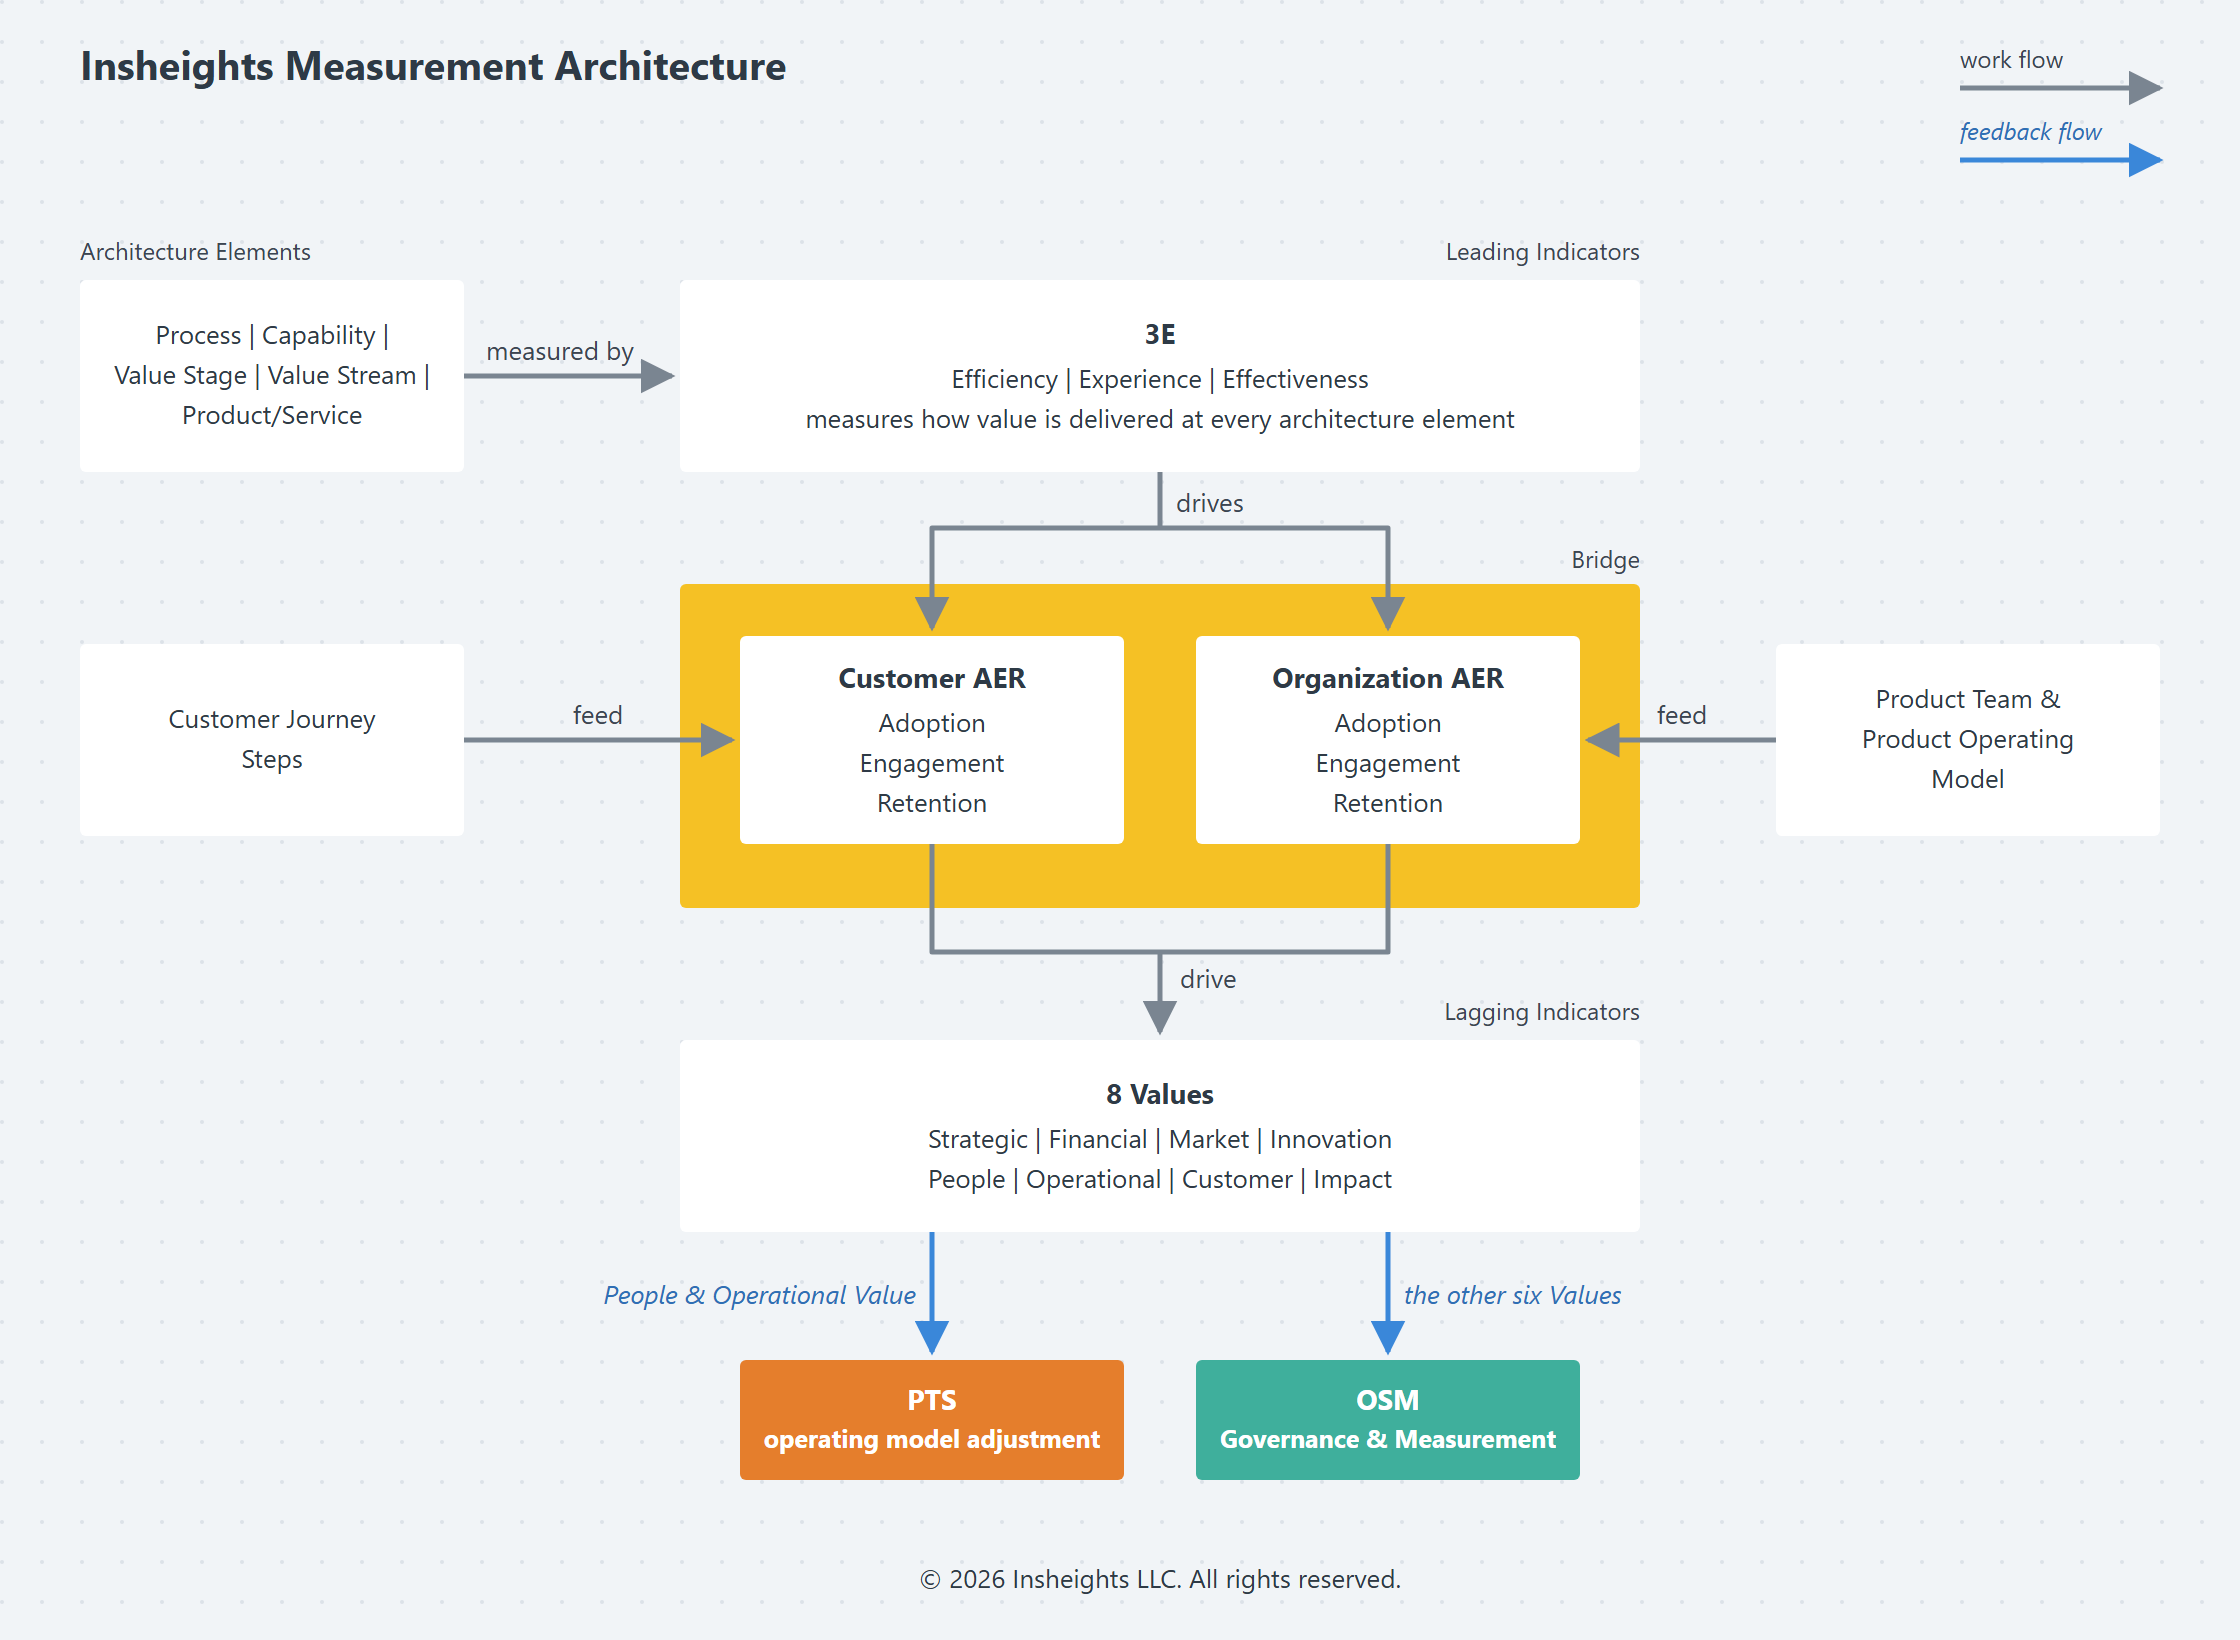
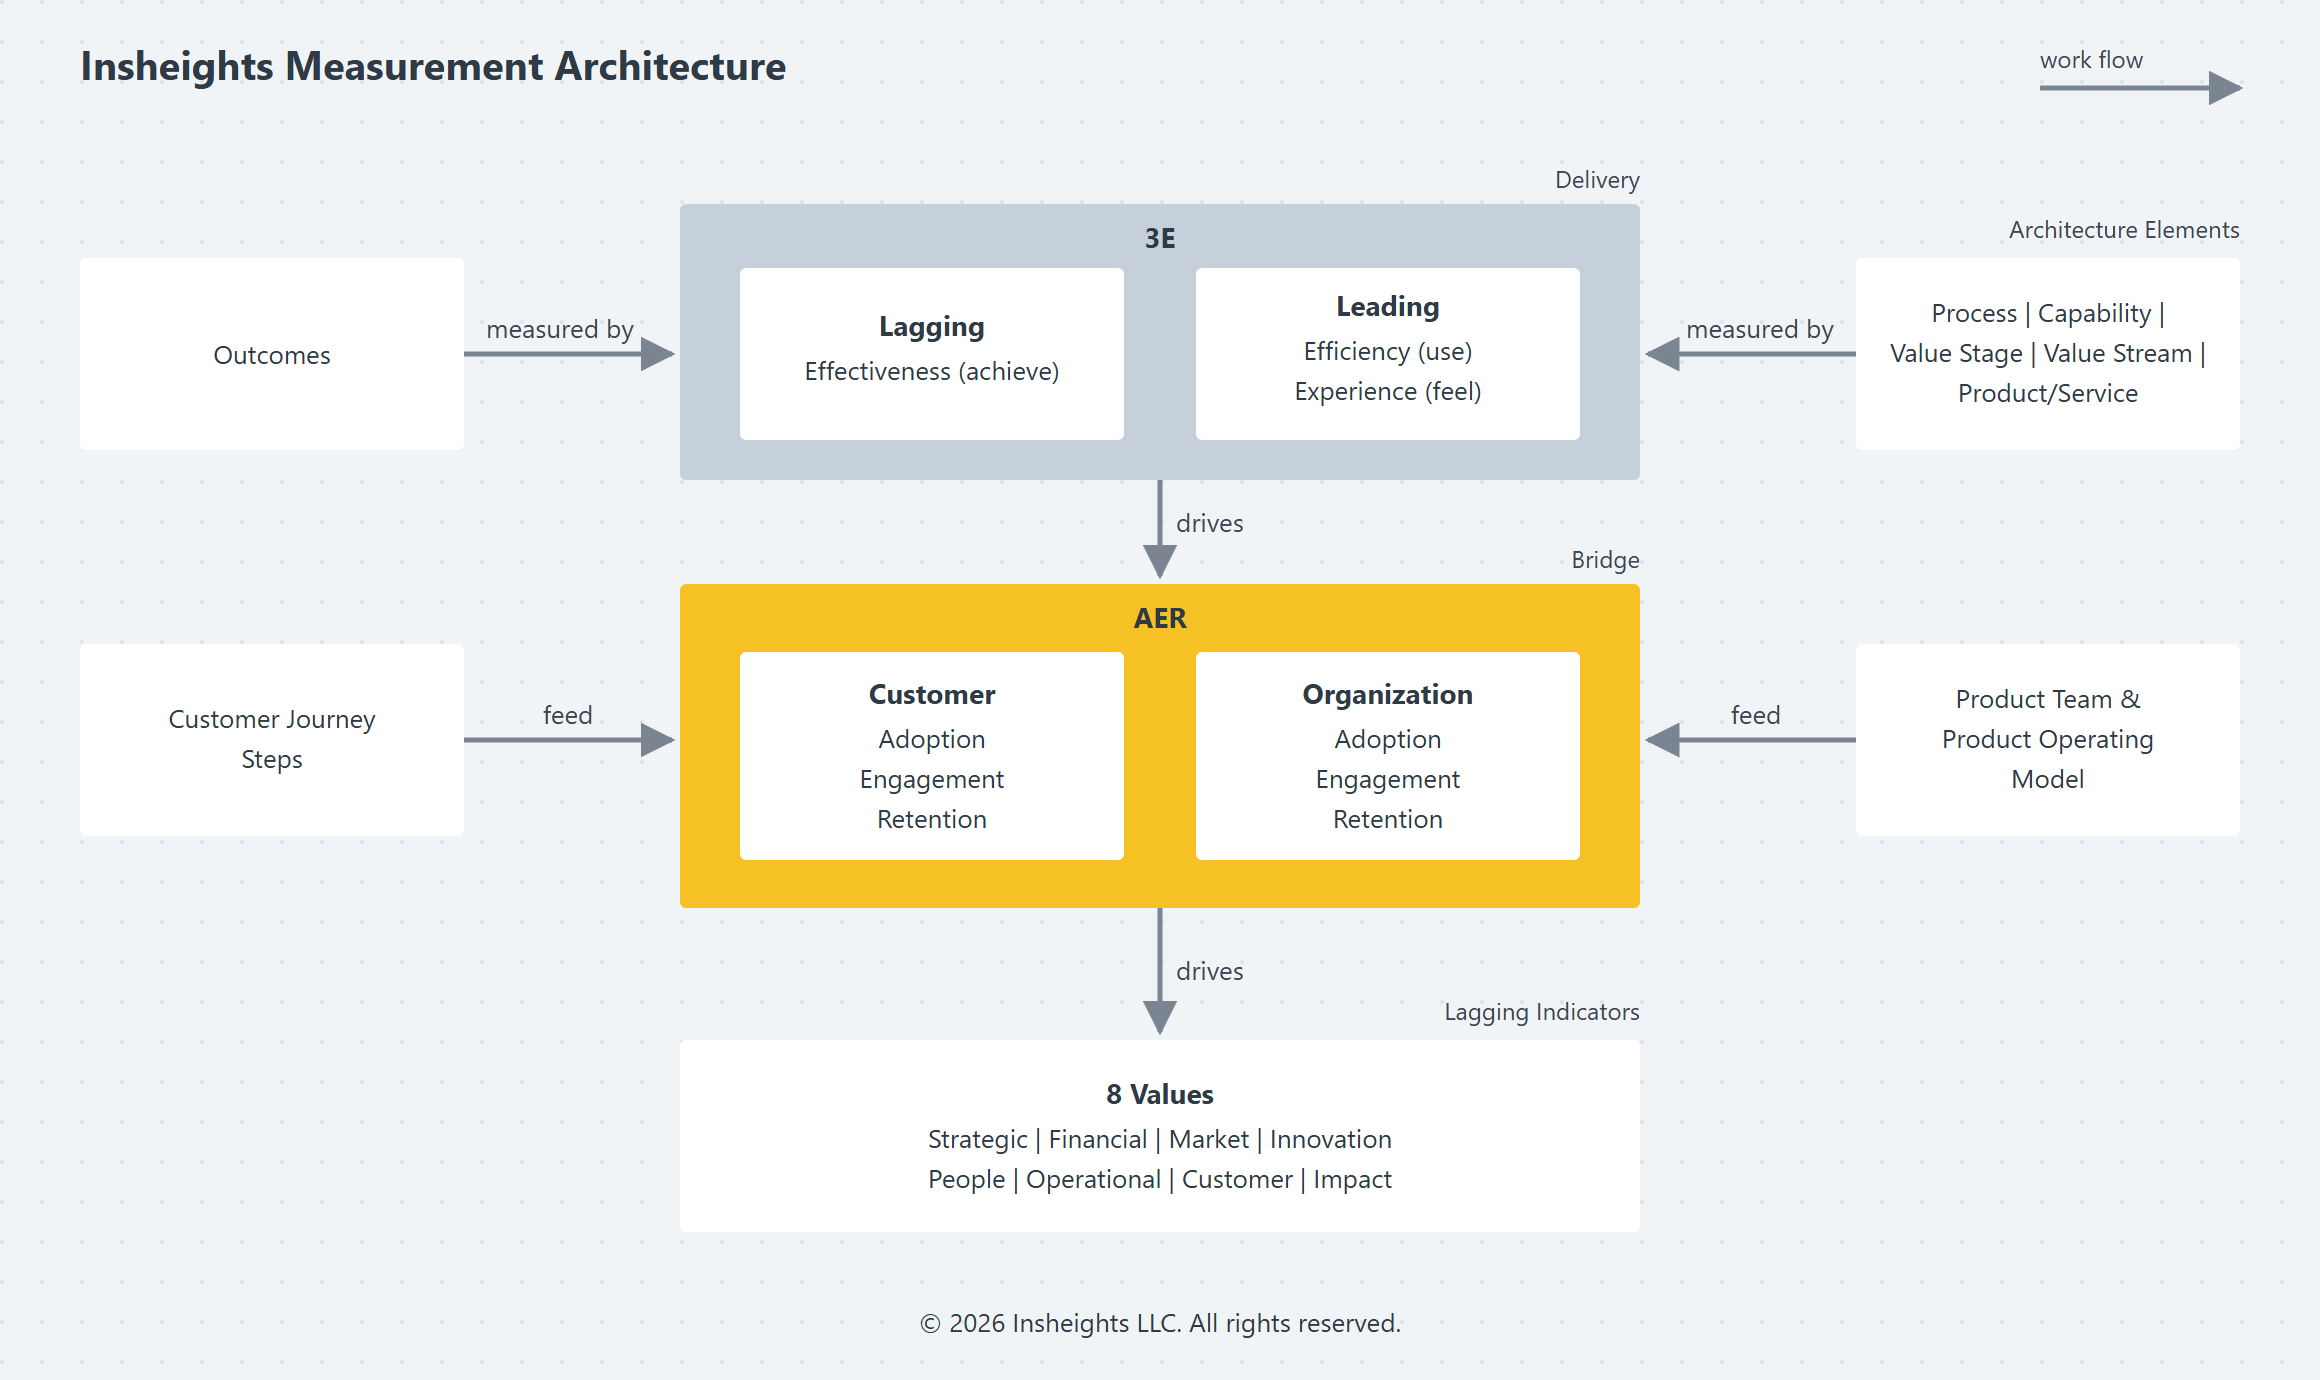
Measurement Architecture and 8-Values: restructure and label in words
Measurement Architecture
- 3E split into Lagging (Effectiveness) and Leading (Efficiency,
  Experience), as 3e.md classifies them; AER titled as the outer box
  with Customer and Organization tracks.
- Outcomes (measured by Effectiveness) on the left, Architecture
  Elements (measured by all of 3E) on the right; every arrow meets an
  outer box, so 3E drives AER and AER drives the 8 Values.
- The diagram stays measurement only: the 8 Values exits to PTS / OSM
  and the feedback legend entry are removed.

8-Values
- Numbers replaced by labels: a verb on one-way arrows, the shared
  noun on two-way arrows. All arrows grey.
- People enables Innovation; Strategic <-> Innovation is strategic
  options; Innovation <-> Financial is investment.
- Larger layout so arrowheads clear the labels; legend shows one-way,
  two-way and episodic effects.

8-values.md tables drop the # column; glossary updated to match.

diff --git a/8-values.md b/8-values.md
@@ -225,41 +225,41 @@ The 8 Values do not operate as a linear chain — they form a network in which m
 **Arrow encoding:**
 - **Solid arrows** — direct, continuous relationship: active, ongoing, and traceable
 - **Dashed arrows** — indirect, episodic relationship: real but mediated or periodic rather than immediate
-- **Blue arrows** — the one-way relationships typed *Feedback* (Operational → Strategic, Customer → Strategic)
-- **Numbers** — each arrow's number is its row in the # column of the tables below
+- **Arrowheads** — one head for a one-way relationship, a head at each end for a two-way relationship
+- **Labels** — a one-way arrow carries a verb, read from source to target (*Customer Value **builds reputation** for Market Value*); a two-way arrow names what passes both ways (*capital allocation* between Strategic and Financial Value). Each label summarises a row in the tables below
 
 ### Bidirectional Relationships — Solid
 
-| # | Relationship | Direction A | Direction B |
-|---|---|---|---|
-| 1 | **Strategic ↔ Innovation** | Strategic direction sets where innovation investment is focused | Disruptive innovation reshapes strategic direction |
-| 2 | **Strategic ↔ Market** | Strategic choices shape market positioning and competitive strategy | Market signals inform strategic reassessment |
-| 3 | **Strategic ↔ Financial** | Strategic direction determines capital allocation and resource deployment | Financial performance informs strategic capacity and priority |
-| 4 | **Financial ↔ Operational** | Financial returns fund operational investment and capability improvement | Operational efficiency and throughput generate financial returns |
-| 5 | **Operational ↔ Customer** | Operational capability enables consistent customer value delivery | Customer signal and demand drive operational improvement and redesign |
-| 6 | **People ↔ Impact** | People capability and culture generate societal and ecosystem impact | Purpose and impact attract, engage, and retain people |
-| 7 | **Customer ↔ Impact** | Delivering genuine customer value creates direct societal benefit | Impact purpose deepens customer loyalty and advocacy |
-| 8 | **Market ↔ Impact** | Market reach and reputation amplify societal and ecosystem impact | Strong impact builds market reputation and trust |
+| Relationship | Direction A | Direction B |
+|---|---|---|
+| **Strategic ↔ Innovation** | Strategic direction sets where innovation investment is focused | Disruptive innovation reshapes strategic direction |
+| **Strategic ↔ Market** | Strategic choices shape market positioning and competitive strategy | Market signals inform strategic reassessment |
+| **Strategic ↔ Financial** | Strategic direction determines capital allocation and resource deployment | Financial performance informs strategic capacity and priority |
+| **Financial ↔ Operational** | Financial returns fund operational investment and capability improvement | Operational efficiency and throughput generate financial returns |
+| **Operational ↔ Customer** | Operational capability enables consistent customer value delivery | Customer signal and demand drive operational improvement and redesign |
+| **People ↔ Impact** | People capability and culture generate societal and ecosystem impact | Purpose and impact attract, engage, and retain people |
+| **Customer ↔ Impact** | Delivering genuine customer value creates direct societal benefit | Impact purpose deepens customer loyalty and advocacy |
+| **Market ↔ Impact** | Market reach and reputation amplify societal and ecosystem impact | Strong impact builds market reputation and trust |
 
 ### Bidirectional Relationship — Dashed
 
-| # | Relationship | Direction A | Direction B |
-|---|---|---|---|
-| 9 | **Innovation ↔ Financial** | Innovation generates financial return through new products, IP, and market expansion — over time and through the operational chain | Financial strength funds R&D, experimentation, and innovation infrastructure |
+| Relationship | Direction A | Direction B |
+|---|---|---|
+| **Innovation ↔ Financial** | Innovation generates financial return through new products, IP, and market expansion — over time and through the operational chain | Financial strength funds R&D, experimentation, and innovation infrastructure |
 
 The Innovation ↔ Financial relationship is indirect and episodic: financial return from innovation routes through operations and customer delivery rather than immediately, and financial investment in innovation produces returns on a cycle rather than continuously.
 
 ### One-Way Relationships
 
-| # | Relationship | Type | Mechanism |
-|---|---|---|---|
-| 10 | **People → Operational** | Foundational | People capability is the prerequisite for operational performance |
-| 11 | **People → Innovation** | Foundational | People capability and engagement drive innovation capacity |
-| 12 | **Operational → Impact** | Generative | How the organisation operates directly creates or undermines societal and ecosystem impact |
-| 13 | **Operational → Strategic** | Feedback | Operational capability and capacity inform strategic feasibility — what the organisation can actually execute |
-| 14 | **Customer → Financial** | Generative | Customer value delivery generates revenue, margin, and financial sustainability |
-| 15 | **Customer → Market** | Generative | Consistent customer outcomes build market reputation and position |
-| 16 | **Customer → Strategic** | Feedback | Customer outcomes are direct evidence for whether strategic hypotheses are being validated |
+| Relationship | Type | Mechanism |
+|---|---|---|
+| **People → Operational** | Foundational | People capability is the prerequisite for operational performance |
+| **People → Innovation** | Foundational | People capability and engagement drive innovation capacity |
+| **Operational → Impact** | Generative | How the organisation operates directly creates or undermines societal and ecosystem impact |
+| **Operational → Strategic** | Feedback | Operational capability and capacity inform strategic feasibility — what the organisation can actually execute |
+| **Customer → Financial** | Generative | Customer value delivery generates revenue, margin, and financial sustainability |
+| **Customer → Market** | Generative | Consistent customer outcomes build market reputation and position |
+| **Customer → Strategic** | Feedback | Customer outcomes are direct evidence for whether strategic hypotheses are being validated |
 
 ### Convergence Nodes
 

diff --git a/glossary.md b/glossary.md
@@ -77,7 +77,7 @@ Every arrow in the IIVCS diagrams carries a label from this vocabulary, and a wo
 - **Feedback flow** (blue arrow, italic label): the name of what flows back. OSM and CVDM number their feedback loops 1–5 as a sequence.
 - **System hand-offs** (IIVCS diagram): the noun handed between frameworks — *value priorities* and *product teams* down, *value-stream outcomes*, *strategic signals* and *customer outcome* back up.
 - Words inside a box or band that state a relationship use the same vocabulary (listed under *Relationship words* below).
-- **8-Values diagram:** most of its relationships run both ways, so each arrow carries a number (1–16) keyed to the *Compounding Relationships* tables in [8 Values](8-values.md), where both directions are written out. Blue marks the two one-way relationships typed *Feedback*.
+- **8-Values diagram:** a one-way relationship is an arrow carrying a verb (source → target); a two-way relationship has a head at each end and names what passes both ways. All its arrows are grey: they are compounding relationships between Values, not work or feedback flows. Each label summarises a row of the *Compounding Relationships* tables in [8 Values](8-values.md).
 
 ### Work-flow verbs
 
@@ -86,13 +86,13 @@ Every arrow in the IIVCS diagrams carries a label from this vocabulary, and a wo
 | **constrains** | Sets limits the target must stay within | OSM: Enterprise Risk Mgmt → Strategic Value Creation (risk appetite) |
 | **decides** | Makes the choice | OSM: Leadership Direction → Strategic Value Creation |
 | **delivers** | Produces and hands over the value that was promised | CVDM: Value Stream → Value Proposition; Product/Service → Value |
-| **drives** | Causes the target to move; here, 3E performance produces the AER response, and AER behaviour produces the 8 Values | Measurement Architecture: 3E → Customer AER, Organization AER; Customer AER, Organization AER → 8 Values (*drive*) |
+| **drives** | Causes the target to move; here, 3E performance produces the AER response, and AER behaviour produces the 8 Values | Measurement Architecture: 3E → AER; AER → 8 Values |
 | **directs** | Sets the direction the target moves toward | OSM: Vision → Strategic Value Creation |
 | **empower** | Equips and authorizes people to own and act | PTS: POM Enablers → product team |
 | **enables** | Supplies the ability the target needs to function | CVDM: Capability → Value Stage. Also the PTS → CVDM relation in [Positioning](positioning.md) |
 | **experienced through** | The product or service by which the customer meets the target | CVDM: Value Stage → Product/Service |
 | **experiences** | Encounters directly | CVDM: Customer/User → Value Proposition |
-| **feed** | Supply the behavioural signal the target measures | Measurement Architecture: Customer Journey Steps → Customer AER; Product Team & Product Operating Model → Organization AER |
+| **feed** | Supply the behavioural signal the target measures | Measurement Architecture: Customer Journey Steps → AER (customer track); Product Team & Product Operating Model → AER (organization track) |
 | **flags risk** | Raises a risk signal for the target to act on | OSM: Enterprise Risk Mgmt → Governance & Measurement; → Execution & Deployment |
 | **fulfills** | Meets a promise | CVDM: Value Stage → Value |
 | **funds** | Commits budget and capacity | OSM: Governance & Measurement → Execution & Deployment. PTS: Objectives by value stream → product team |
@@ -100,7 +100,7 @@ Every arrow in the IIVCS diagrams carries a label from this vocabulary, and a wo
 | **governs conduct** | Sets how the target must behave | OSM: Values → Governance & Measurement (outcomes are read against Values) |
 | **guides** | Supplies the principles the target follows | OSM: Values → Strategic Value Creation |
 | **informs** | Supplies evidence the target uses | OSM: Internal Context, External Context → Strategic Value Creation |
-| **measured by** | Has its delivery performance measured by the target | Measurement Architecture: Architecture Elements → 3E |
+| **measured by** | Is measured by the target | Measurement Architecture: Outcomes → 3E Effectiveness (lagging); Architecture Elements → 3E (all three dimensions) |
 | **operationalizes** | Makes repeatable in practice | CVDM: Process → Capability |
 | **participates in** | Takes part in | CVDM: Stakeholder → Value Stage |
 | **produces** | Brings about as a result | PTS: product team → Business / Customer Outcomes |
@@ -129,8 +129,6 @@ Every arrow in the IIVCS diagrams carries a label from this vocabulary, and a wo
 | IIVCS | — | **value-stream outcomes** | Evidence that value-stream outcomes are being produced (PTS → OSM) |
 | IIVCS | — | **strategic signals** | CVDM loop 5, consolidated by the product team, for OSM's strategic reassessment (PTS → OSM) |
 | IIVCS | — | **customer outcome** | Realized customer outcomes (CVDM → PTS) |
-| Measurement Architecture | — | **People & Operational Value** | Whether the operating model needs adjustment (8 Values → PTS) |
-| Measurement Architecture | — | **the other six Values** | Strategic, Financial, Market, Innovation, Customer and Impact Value, for Governance & Measurement and strategic reassessment (8 Values → OSM) |
 
 ### Relationship words in boxes and bands
 
